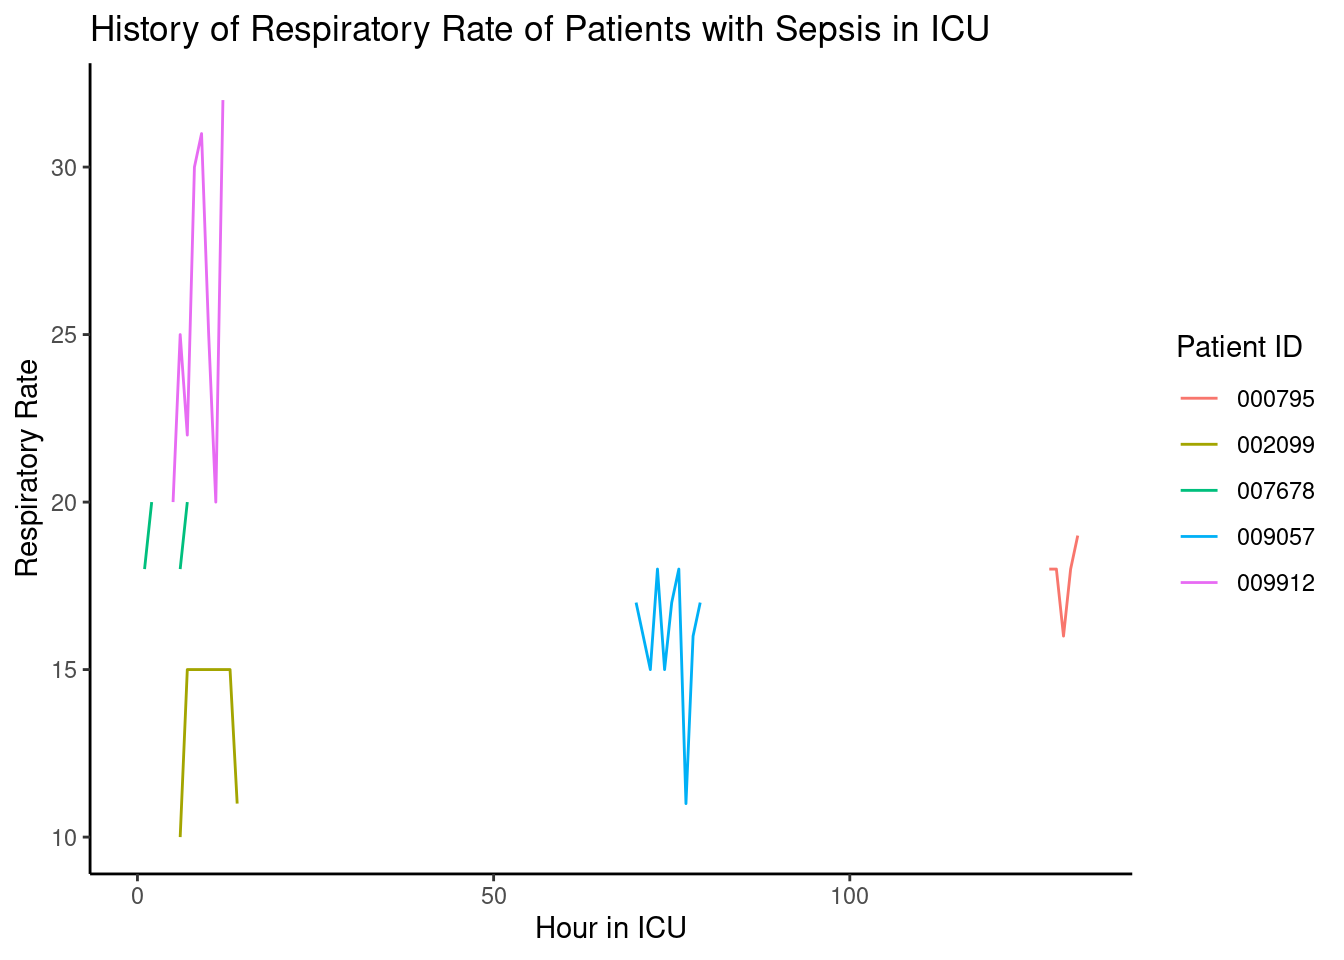
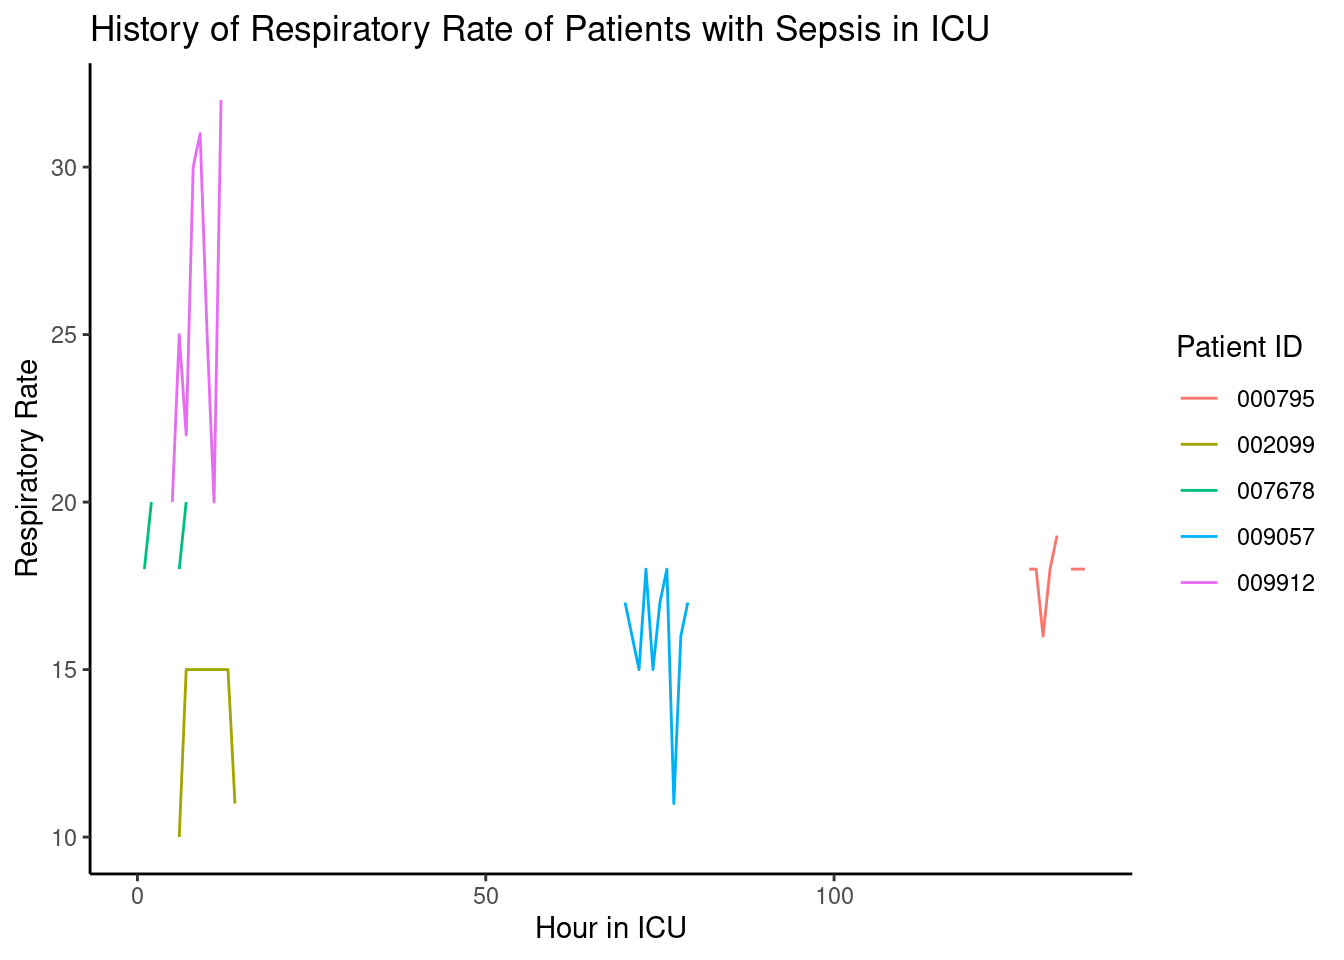
Updated report

diff --git a/HW7.html b/HW7.html
@@ -72,7 +72,7 @@ ul.task-list li input[type="checkbox"] {
 
 <div class="cell">
 <div class="cell-output cell-output-stdout">
-<pre><code>This report was updated at 2023-04-12 04:22:52 CDT</code></pre>
+<pre><code>This report was updated at 2023-04-12 05:18:31 CDT</code></pre>
 </div>
 </div>
 <div class="cell">
@@ -91,9 +91,9 @@ ul.task-list li input[type="checkbox"] {
 <tbody>
   <tr>
    <td style="text-align:left;"> 000795 </td>
+   <td style="text-align:right;"> 47 </td>
    <td style="text-align:right;"> NA </td>
-   <td style="text-align:right;"> NA </td>
-   <td style="text-align:right;"> NA </td>
+   <td style="text-align:right;"> 18 </td>
   </tr>
   <tr>
    <td style="text-align:left;"> 002099 </td>
@@ -175,9 +175,9 @@ ul.task-list li input[type="checkbox"] {
   </tr>
   <tr>
    <td style="text-align:left;font-weight: bold;color: black !important;background-color: lightgrey !important;border-right:1px solid;"> 000795 </td>
+   <td style="text-align:right;"> -9 </td>
    <td style="text-align:right;"> NA </td>
-   <td style="text-align:right;"> NA </td>
-   <td style="text-align:right;"> NA </td>
+   <td style="text-align:right;"> 0 </td>
   </tr>
   <tr>
    <td style="text-align:left;font-weight: bold;color: black !important;background-color: lightgrey !important;border-right:1px solid;"> 001135 </td>
